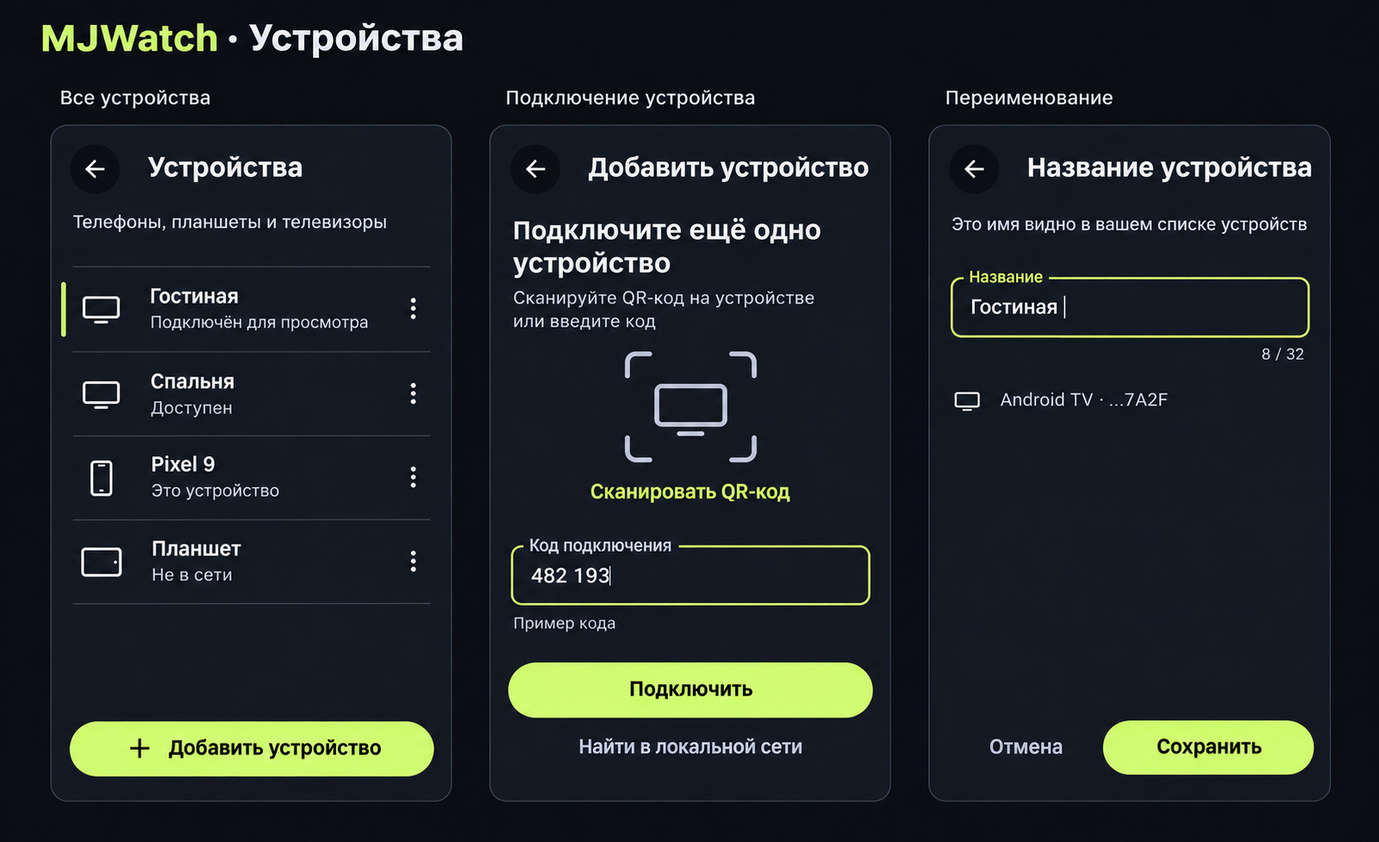
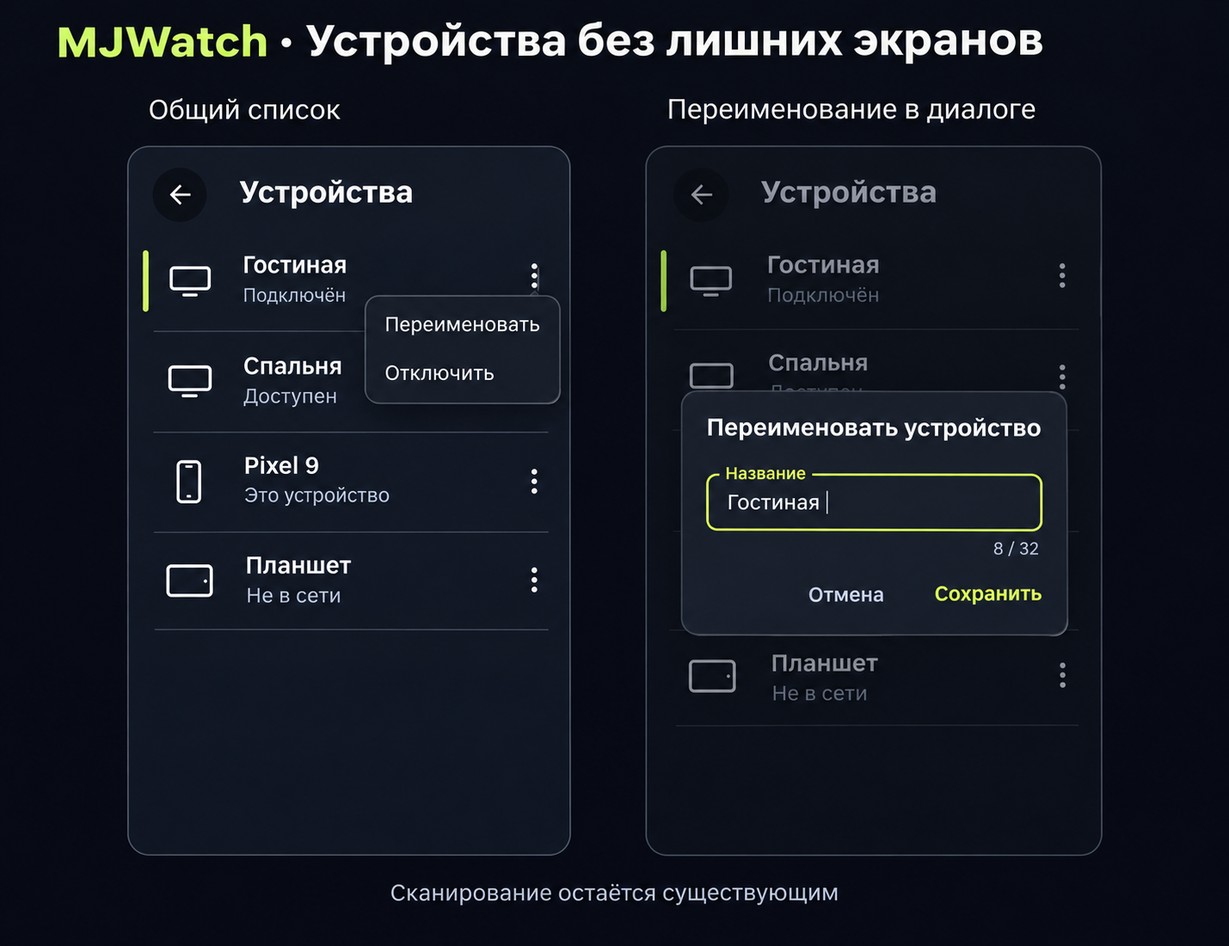
docs: simplify TV flow and use modal device rename

diff --git a/design/phone-tv-v1/README.md b/design/phone-tv-v1/README.md
@@ -1,6 +1,6 @@
 # MJWatch: просмотр на ТВ с телефона
 
-17.11.2026 · Дизайн-проект v1 · Статус: проектирование, не реализованная функция.
+17.11.2026 · Дизайн-проект v1, редакция 2 · Статус: проектирование, не реализованная функция.
 
 Пользователь выбирает видео на телефоне и запускает его на конкретном подключённом ТВ. Видео воспроизводится на ТВ; телефон остаётся каталогом и средством выбора устройства. Плей, пауза, перемотка и громкость доступны через системные средства Android. Нового пульта, мини-плеера с транспортом и собственного ползунка громкости в приложении нет.
 
@@ -17,43 +17,45 @@
 
 ![Состояния карточки видео](01-viewing-states.png)
 
-![Общие устройства, подключение, переименование](02-unified-devices.png)
+![Общий список устройств и диалог переименования](02-unified-devices.png)
 
 ![Выбор адресата и восстановление](03-target-and-recovery.png)
 
-Это три листа одного решения, всего девять кадров. Использованы существующие экран, палитра, типографика и киноиллюстрация MJWatch. Тексты и правила ниже приоритетнее иллюстративных деталей растра. Полоска «Ваш просмотр» — статичная информация о сохранённой позиции, без жеста перемотки и без роли slider.
+Это три листа одного решения, всего восемь кадров. Отдельные экраны добавления и переименования удалены; существующее сканирование не меняется. Использованы существующие экран, палитра, типографика и киноиллюстрация MJWatch. Тексты и правила ниже приоритетнее иллюстративных деталей растра. Полоска «Вы остановились на 36:42» — статичная информация о сохранённой позиции, без жеста перемотки и без роли slider.
 
 | Кадр | Назначение | Переход / результат |
 |---|---|---|
-| M01 Нет подключения | Карточка фильма, описание, сохранённая позиция; вместо запуска «Подключить ТВ» | Открыть контекстный выбор доступного ТВ либо общий список устройств для добавления |
-| M02 ТВ подключён | Отдельная строка «ТВ: Гостиная ▾» над кнопкой «Смотреть на ТВ»; закладка справа сверху | Строка открывает M07; кнопка запускает на выбранном ТВ, с выбором релиза/файла при необходимости |
-| M03 Уже идёт на ТВ | Название, текущий ТВ, пояснение об управлении через Android | Никаких дублирующих play/pause/seek/volume; можно выбрать другой ТВ |
-| M04 Все устройства | Общий список, иконки типов, статус, меню каждой строки | ТВ → подключение/сведения; телефон и планшет → сведения, без назначения приёмником |
-| M05 Добавить устройство | Общий существующий сценарий QR/код с другого устройства, поиск локальных ТВ | Проверка → подтверждённая привязка → общий список; добавление не запускает видео |
-| M06 Название устройства | Имя, счётчик, тип и короткий ID | Сохранить / отмена, ошибка не стирает ввод |
-| M07 Где смотреть? | Контекстный sheet только с подходящими ТВ; открывается по строке выбора ТВ либо кнопке «Подключить ТВ» | Выбрать адресата без запуска видео; «Все устройства» ведёт в общий список. Это не отдельный раздел ТВ |
-| M08 ТВ уже занят | Названия ТВ и текущего видео; предупреждение о замене | Явное подтверждение запуска другого видео; отмена сохраняет текущее |
-| M09 Потеря соединения | Сведения о потерянной связи, повтор, другой адресат | Вернуть актуальное состояние с ТВ; не утверждать, что просмотр остановлен |
+| M01 ТВ не выбран | Карточка фильма без кнопки запуска или подключения внизу | Иконка трансляции в шапке открывает M07; закладка работает независимо |
+| M02 ТВ подключён | Одна кнопка «Смотреть на ТВ · Гостиная» | Запуск на выбранном ТВ, при необходимости через выбор релиза/файла; без повторного выбора устройства |
+| M03 Просмотр на ТВ | Только статус «Идёт на ТВ · Гостиная» внизу | Иконка трансляции позволяет сменить адресат; собственного транспорта нет |
+| M04 Общий список | Телефоны, планшеты, ТВ, тип по иконке; меню ⋮ у строки | «Переименовать» открывает M06 поверх списка, без нового маршрута |
+| M06 Переименование | Небольшой модальный диалог поверх M04: имя, «Отмена», «Сохранить» | Сохранить имя либо закрыть диалог; список и прокрутка сохраняются |
+| M07 Где смотреть? | Компактный sheet только с подходящими ТВ; вызов иконкой трансляции | Выбрать адресат без запуска; «Все устройства» открывает общий список |
+| M08 ТВ уже занят | Короткий диалог «Заменить видео?» с именем ТВ и видео | Явно подтвердить замену или отменить, без нового экрана |
+| M09 Потеря связи | Встроенное сообщение на карточке и действие «Повторить» | Восстановить соединение либо выбрать другой ТВ иконкой трансляции; кнопки запуска нет |
 
-В M09 показана контекстная помощь для выбранного ТВ и альтернативных ТВ, а не полный новый список устройств. Основной список остаётся M04, с телефонами и планшетами.
+Номер M05 сохранён как удалённый: новый экран добавления из предыдущей редакции исключён. Не реализовывать его и не менять существующее сканирование QR/кода.
 
-## Размещение в существующем приложении
+## Размещение и минимальная навигация
 
-Вход через существующие настройки аккаунта / список устройств. Если устройство работает в direct-режиме, тот же общий список доступен из настроек подключений, без обязательного создания аккаунта. Не добавлять нижнюю вкладку или TV-only раздел.
+Вход в общий список остаётся через существующие настройки аккаунта / устройства. В direct-режиме тот же общий реестр относится к настройкам подключений. Новых вкладок, TV-only раздела, страницы добавления или страницы переименования нет.
 
-На карточке справа сверху всегда остаётся закладка («Добавить в Моё» / «Удалить из Моего»), слева — «Назад». Закладка меняет только сохранение фильма и не открывает выбор экрана; её состояние не зависит от подключения ТВ.
+В шапке карточки слева «Назад», справа две отдельные icon buttons: **трансляция**, затем **закладка** у правого края. У каждой цель ≥48dp, промежуток ≥8dp и своё доступное имя. Трансляция открывает «Где смотреть?»; закладка только добавляет/удаляет фильм из «Моего». Не заменять одну другой. Иконка трансляции доступна до подключения; её доступное описание включает выбранный ТВ/состояние, при просмотре она выделена. Дополнительной строки «ТВ: …» нет.
 
-Триггеры меню «Где смотреть?» зафиксированы явно:
+Внизу карточки только одно состояние:
 
-- С подключённым ТВ — отдельная строка с иконкой ТВ, текстом «ТВ: Гостиная» и chevron вниз, непосредственно над кнопкой запуска; вся строка — цель касания ≥48dp. Она остаётся доступна и при уже идущем просмотре.
-- Без подключённого ТВ — кнопка «Подключить ТВ» вместо запуска. Если подходящих устройств нет, в sheet показывается пустое состояние с переходом «Все устройства» → «Добавить устройство».
-- «Смотреть на ТВ» отправляет запуск на уже выбранный адресат и не открывает выбор устройства повторно. Если подключение потеряно, вместо отправки показывается подключение/восстановление.
+- ТВ не подключён — нет кнопки запуска, нет кнопки «Подключить ТВ» и нет дублирующего призыва подключиться. Выбор выполняется иконкой трансляции в шапке.
+- ТВ подключён — одна кнопка **«Смотреть на ТВ · Гостиная»**. Имя длинного устройства сокращается визуально, полное доступно в TalkBack и выборе ТВ; при крупном шрифте разрешён перенос без обрезания.
+- Видео уже идёт — спокойный статус **«Идёт на ТВ · Гостиная»** вместо дублирующего запуска и инструкции про уведомления. Play/pause/seek/volume остаются системными.
+- Соединение потеряно — короткое сообщение на месте «Нет связи с ТВ …», пояснение, что видео могло продолжиться, и «Повторить». Отдельный экран ошибки не открывается.
 
-Выбор устройства закрывает sheet и обновляет строку назначения, но не запускает видео. Back/свайп закрывает sheet, сохраняя прежний выбор; фокус возвращается к открывшей его строке или кнопке. Нажатие закладки, выбор адресата и запуск — три независимых действия.
+Выбор в sheet только подключает/меняет адресат и закрывает sheet. Он не запускает видео. Back/свайп сохраняет прежний выбор и возвращает фокус к иконке трансляции. «Смотреть на ТВ» не открывает выбор повторно; при потере подключения запуск блокируется и показывается M09. Если список пуст, sheet кратко сообщает об отсутствии доступных ТВ и оставляет «Все устройства»; новый мастер добавления из него не создаётся.
 
-Главная / Поиск / Моё / Настройки сохраняются. В поиске, истории, продолжении просмотра, списках серий, файлов и раздач нельзя обойти проверку подключения. Без активного ТВ каталог, описание, поиск и избранное доступны; кнопки «Смотреть», «Продолжить», play-иконки и прямые действия запуска скрыты. На их месте одно понятное действие подключения. Переход в источники допустим для ознакомления, но финальный запуск также закрыт до соединения. При потере связи уже открытые CTA немедленно становятся недоступны с пояснением.
+Существующие сканер, ввод кода, их точки входа, разрешения камеры и pairing-flow сохраняются **как есть**. В этом проекте не рисовать и не реализовывать замену сканирования. Для устройств, которым потребуется иная техническая привязка, сначала подтвердить её в spike; не расширять интерфейс сканера без отдельной задачи.
 
-Правило относится к телефону и планшету в роли контроллера. Нативный самостоятельный просмотр и физический пульт на ТВ сохраняются; ТВ не должен подключаться к самому себе. Демо с локальным видео остаётся инструментом проверки в настройках и не выдаётся за удалённый просмотр.
+Главная / Поиск / Моё / Настройки сохраняются. В поиске, истории, списках серий, файлов, раздач и deep links нельзя обойти проверку подключения. Без активного ТВ каталог, описание и избранное доступны, прямые действия запуска скрыты; не подменять их кнопкой подключения. Переход в источники допустим для ознакомления, но финальный запуск закрыт до соединения. При потере связи уже открытые CTA исчезают с контекстным пояснением.
+
+Правило относится к телефону и планшету как контроллерам. Самостоятельный просмотр и физический пульт на ТВ сохраняются; ТВ не подключается к самому себе. Демо с локальным видео остаётся инструментом проверки в настройках.
 
 ## Состояния соединения и запуска
 
@@ -77,7 +79,9 @@
 
 ## Подключение и переименование
 
-Переиспользовать текущий QR/код для привязки аккаунта, не создавать параллельный логин ТВ. Локальное обнаружение предлагает кандидатов, но не даёт право управления само по себе. В direct-режиме доверие подтверждается на ТВ через одноразовый код/QR; это проектируемое расширение, существующий managed pairing его автоматически не обеспечивает. Отказ камеры оставляет ввод кода; истёкший код — получить новый на устройстве. Нет сети / изоляция Wi-Fi / нет совместимого ТВ имеют свои сообщения и повтор поиска.
+Существующую привязку и сканирование не переделывать. Локальное обнаружение предлагает кандидатов, но не даёт разрешение управлять автоматически; требования совместимости и доверия проверяются в техническом spike.
+
+Переименование: **Устройства → ⋮ нужной строки → «Переименовать» → модальный диалог**. Диалог содержит заголовок «Переименовать устройство», одно поле «Название», счётчик и текстовые действия «Отмена» / «Сохранить». Отдельного экрана, полноэкранного sheet, информационного абзаца и большой CTA нет. Ошибка отображается у поля и не стирает ввод. Back/нажатие снаружи отменяет несохранённое изменение, возвращая к той же строке. Во время сохранения повторный submit заблокирован; результат подтверждается после записи.
 
 Имя — пользовательский alias стабильного device ID, 1–32 Unicode-символа после удаления краевых пробелов. Пустое имя, управляющие символы и превышение лимита не сохраняются. Дубликаты допустимы с различением по ID. Alias пользователя не переименовывает системный Cast receiver глобально для всех жильцов; на системных поверхностях имя маршрута может отличаться. Это объясняется в сведениях устройства.
 

diff --git a/design/phone-tv-v1/ACCEPTANCE.md b/design/phone-tv-v1/ACCEPTANCE.md
@@ -5,7 +5,7 @@
 | ID | Сценарий | Ожидаемый результат |
 |---|---|---|
 | A01 | Открыть устройства | Один список телефонов, планшетов и ТВ; тип по иконке; отдельного меню ТВ нет |
-| A02 | Нет добавленного ТВ | Каталог доступен; запуск/продолжение/быстрый play скрыты на всех входах; есть подключение |
+| A02 | Нет добавленного ТВ | Каталог доступен; запуск/продолжение/быстрый play скрыты на всех входах; выбор ТВ доступен иконкой трансляции, отдельной кнопки подключения нет |
 | A03 | ТВ сохранён, но offline или не выбран | Он виден в общем списке; CTA запуска не разблокированы |
 | A04 | Подключение к разрешённому доступному ТВ | Имя адресата видно; только после подтверждения соединения появляется запуск |
 | A05 | Два доступных и один offline ТВ плюс телефон | Контекстный выбор предлагает только поддерживаемые ТВ; offline недоступен; общий список не фильтруется навсегда |
@@ -14,21 +14,21 @@
 | A08 | Тот же файл уже идёт на ТВ | Присоединение без перезапуска и сброса позиции |
 | A09 | На ТВ другое видео | Подтверждение с именем ТВ и видео; отмена не меняет воспроизведение; устаревшая сессия перепроверяется |
 | A10 | Выбрать другое устройство во время просмотра | Сам выбор не переносит и не запускает видео; прежний ТВ продолжает просмотр; команды имеют верную цель |
-| A11 | Переименовать своё устройство обычным пользователем | Работает для ТВ/телефона/планшета, без admin; активная сессия не рвётся |
+| A11 | Переименовать своё устройство обычным пользователем | Из ⋮ открывается компактный модальный диалог, не новая страница. Работает для ТВ/телефона/планшета, без admin; активная сессия не рвётся |
 | A12 | Пустое/длинное имя, дубликат, сервер offline | Валидация 1–32 Unicode-символа; дубликат различим по ID; подтверждение синхронизации честное |
 | A13 | Изменить чужое устройство / отозвать своё | Чужое запрещено API; отзыв немедленно убирает право подключения/запуска |
-| A14 | QR, код истёк, камера запрещена | Существующий pairing не дублируется; есть ввод кода, объяснение ошибки и повтор; секреты не публикуются |
+| A14 | Существующее сканирование и pairing | Экран, точки входа, QR/ввод кода и разрешения не изменены; новый экран добавления не создан |
 | A15 | Системные play/pause/seek | Управляют текущим видео на конкретном ТВ и отражают изменения пультом; seek доступен лишь при поддержке |
 | A16 | Громкость системными средствами | Меняется удалённая громкость при поддержке, не локальная громкость телефона; ограничения route не скрываются |
 | A17 | Свернуть/заблокировать/пересоздать телефон | Видео продолжается на ТВ, доступна системная карточка в поддерживаемых условиях; нет дубликатов сессии |
 | A18 | Второй телефон в LAN / запуск с пульта ТВ | Проверено появление и присоединение системного управления; условия Cast описаны фактически |
-| A19 | Разрыв Wi-Fi, ТВ выключен, процесс завершён | Запуск закрыт, нет выдуманного состояния паузы; TV не останавливается автоматически из-за потери контроллера; повтор читает актуальное состояние |
+| A19 | Разрыв Wi-Fi, ТВ выключен, процесс завершён | Кнопка запуска скрыта, сообщение и «Повторить» появляются в карточке без отдельного экрана; нет выдуманного состояния паузы; TV не останавливается автоматически из-за потери контроллера; повтор читает актуальное состояние |
 | A20 | Отключённые уведомления / несовместимый ТВ | Нет обещания обхода настроек; совместимость и причины отражены; самодельный пульт не появляется |
 | A21 | Обход всех экранов телефона | Нет собственных кнопок pause/play/seek/volume для текущей ТВ-сессии и нет отдельного mini-player с транспортом |
-| A22 | TalkBack, 200% fontScale, tablet, TV D-pad | Тип/статус доступны голосом, 48dp цели, CTA над IME, нет обрезания, Back возвращает фокус |
+| A22 | TalkBack, 200% fontScale, tablet, TV D-pad | Тип/статус доступны голосом, 48dp цели, CTA над IME, нет обрезания, Back возвращает фокус к исходному элементу |
 | A23 | Самостоятельный просмотр на ТВ | Сохраняется работа физическим пультом; телевизор не требует подключения к самому себе |
 | A24 | Закладка без ТВ / с ТВ / во время просмотра | Кнопка справа сверху доступна во всех состояниях; добавляет/удаляет фильм из «Моего», не выбирает ТВ и не запускает видео |
-| A25 | Нажать строку «ТВ: Гостиная ▾» либо «Подключить ТВ» без соединения | Открывается «Где смотреть?»; выбор меняет адресат без запуска; Back/свайп сохраняет прежний выбор и возвращает фокус |
-| A26 | Нажать «Смотреть на ТВ» при действующем соединении | Видео запускается на выбранном ТВ без повторного открытия выбора устройства; закладка и выбор ТВ не подменяют запуск |
+| A25 | Нажать отдельную иконку трансляции до/после подключения | Открывается «Где смотреть?»; выбор меняет адресат без запуска; Back/свайп сохраняет прежний выбор и возвращает фокус к иконке |
+| A26 | Нажать «Смотреть на ТВ · Гостиная» при действующем соединении | Видео запускается на выбранном ТВ без повторного открытия выбора устройства; закладка и выбор ТВ не подменяют запуск |
 
 Матрица устройства/версии и доказательства A15–A20 обязательны перед заявлением «как у Cast». Растровые макеты и unit tests этого не подтверждают.

diff --git a/design/phone-tv-v1/ASSETS.md b/design/phone-tv-v1/ASSETS.md
@@ -1,15 +1,15 @@
 # Макеты: происхождение и проверка
 
-Сгенерированы встроенным ImageGen 17.11.2026 как продолжение существующего интерфейса MJWatch. Источники визуального языка: `../spec/DESIGN-SYSTEM.md`, первоначальные `mobile-detail.jpg` и `tv-home.jpg`, теперь в `../archive/initial-v1/screens/`.
+Редакция 2 от 17.11.2026. Созданы встроенным ImageGen на основе существующих экрана и визуального языка MJWatch: Roboto, тёмная палитра, лаймовый акцент, киноиллюстрация. Это три листа одного решения / восемь кадров, не варианты дизайна.
 
-| Файл | Содержание | Ключевые требования промпта |
+| Файл | Содержание | Итоговый промпт и ограничения |
 |---|---|---|
-| 01-viewing-states.png | Карточка: нет ТВ / подключён / уже идёт | Закладка справа сверху во всех кадрах; отдельная строка ТВ над запуском; без запуска до подключения и собственного транспорта |
-| 02-unified-devices.png | Общие устройства / добавление / переименование | Один список всех типов, разные Material-иконки; QR/код; пользовательское имя 1–32 символа |
-| 03-target-and-recovery.png | Контекстный выбор / замена видео / потеря связи | Явная подпись триггера «Нажатие на строку «ТВ: Гостиная»»; несколько ТВ, offline, подтверждение занятого приёмника; нет рисованной системной панели Android |
+| 01-viewing-states.png | Три состояния одной карточки | Независимые Cast и закладка справа сверху; убрать строку выбора, повторяющиеся пояснения и громоздкую progress-card; без ТВ нет нижней кнопки вообще, при подключении одна «Смотреть на ТВ · Гостиная», во время просмотра только статус |
+| 02-unified-devices.png | Общий список и модальный диалог | Все типы в одном списке, ⋮ → «Переименовать», небольшой AlertDialog с одним полем и текстовыми действиями; никаких новых экранов добавления/переименования, не рисовать и не менять сканирование |
+| 03-target-and-recovery.png | Sheet выбора, подтверждение замены, потеря связи в карточке | Вход в sheet иконкой трансляции; замена в компактном диалоге; ошибка встроена в карточку с «Повторить»; без отдельной error-страницы, без кнопки подключения, без системных panels и собственного транспорта |
 
-Отклонённые ранние листы с отдельным меню ТВ и нарисованной Android-панелью не включены в поставку. Финальные листы просмотрены после генерации: подписи и состояние назначения читаются, собственного транспорта нет, общий список включает телефон и планшет. Это визуальная проверка растров, не runtime QA.
+Отклонённые версии с TV-only меню, новой страницей сканирования, fullscreen переименованием, отдельной строкой ТВ или кнопкой «Подключить ТВ» не входят в актуальные материалы. Изображения прошлых редакций доступны только в истории Git.
 
-Правка 17.11.2026 по замечанию пользователя: листы 01 и 03 отредактированы встроенным ImageGen с сохранением композиции. Промпты правки: вернуть независимую закладку в правый верхний угол всех карточек; убрать TV chips из этого угла; в подключённых состояниях разместить одну строку «ТВ: Гостиная» с chevron непосредственно над запуском; убрать дублирующий выбор ТВ; на листе sheet подписать триггер и вход без подключения. Проверено визуально: три кнопки закладок на листе 01, две отдельные строки выбора, запуск отдельно; на листе 03 триггер подписан, закладки сохранены.
+Просмотрены все три итоговых растра: закладки и Cast разделены, в первом состоянии нижней кнопки нет, подключённый адресат указан в запуске, переименование явно поверх списка, добавление не изображено, потеря связи остаётся в карточке. Это визуальная проверка, не runtime QA.
 
-Ограничения: ImageGen-растр не является редактируемым Figma-файлом или pixel-perfect спецификацией. Размещение системных панелей не проектируется. Референсные размеры экранов и требования адаптации заданы в README; нативный UI должен поддерживать реальный viewport, доступность и IME. При расхождении текста изображения с документом приоритет у README и ACCEPTANCE.
+ImageGen-растр не является Figma или pixel-perfect спецификацией. Нативный UI должен поддерживать viewport, insets, 200% fontScale, IME и доступность. При расхождении растра с документом приоритет имеют README и ACCEPTANCE. Системный интерфейс Android не проектируется.

diff --git a/design/HANDOFF.md b/design/HANDOFF.md
@@ -4,6 +4,8 @@
 
 Телефоны, планшеты и телевизоры находятся в общем разделе «Устройства». Тип обозначается иконкой. Отдельного меню ТВ нет. Телефон запускает видео только на подключённом и доступном ТВ. Транспорт и громкость управляются средствами Android; отдельный экранный пульт не проектируется.
 
+Редакция 2: выбор ТВ открывается иконкой трансляции в шапке рядом с независимой закладкой. Без подключённого ТВ нижней кнопки нет, при подключении — одна «Смотреть на ТВ · имя». Сканирование сохраняется как есть, новый экран добавления не делать. Переименование — компактный модальный диалог из ⋮ строки общего списка.
+
 Это дизайн-проект и задачи реализации. Растровые макеты не доказывают работоспособность Cast, фонового управления или доступность реального ТВ.
 
 Для базового приложения сохраняются контракты `spec/`, текущий Kotlin-код и дизайн-система. Первоначальный handoff находится в [архиве](archive/initial-v1/HANDOFF.md) и не является актуальным заданием на переписывание приложения с нуля.

diff --git a/design/phone-tv-v1/CLEANUP.md b/design/phone-tv-v1/CLEANUP.md
@@ -12,3 +12,5 @@
 Сохранены общие assets, лицензии, дизайн-система, интеграционные контракты, MJ Family и доказательства тестирования. Незакоммиченные `design/server-management-v1/`, `design/assets/SERVER-AND-SYNC.md` и локальные отчёты не изменялись и не включались в коммит. Нужность этих параллельных материалов не определяется по их возрасту.
 
 Архивирование обратимо и не освобождает историю Git от файлов; цель — убрать старые макеты из активного задания. Код приложения, сервер, зависимости и рабочее поведение не менялись.
+
+Редакция 2: из активного проекта исключены отдельные страницы добавления и переименования, строка выбора ТВ и кнопка «Подключить ТВ». Сканирование сохранено без изменений; переименование — модальный диалог из списка. Старые редакции макетов остаются только в истории Git.

diff --git a/design/README.md b/design/README.md
@@ -3,7 +3,7 @@
 Актуальный проект: [Телефон → ТВ, v1](phone-tv-v1/README.md), 17.11.2026.
 
 - [Макеты: состояния просмотра](phone-tv-v1/01-viewing-states.png).
-- [Макеты: общий список устройств, добавление, переименование](phone-tv-v1/02-unified-devices.png).
+- [Макеты: общий список устройств и диалог переименования](phone-tv-v1/02-unified-devices.png).
 - [Макеты: выбор экрана, занятый ТВ, потеря связи](phone-tv-v1/03-target-and-recovery.png).
 - [Системное управление: исследование и границы](phone-tv-v1/SYSTEM-MEDIA.md).
 - [Критерии приёмки](phone-tv-v1/ACCEPTANCE.md).
